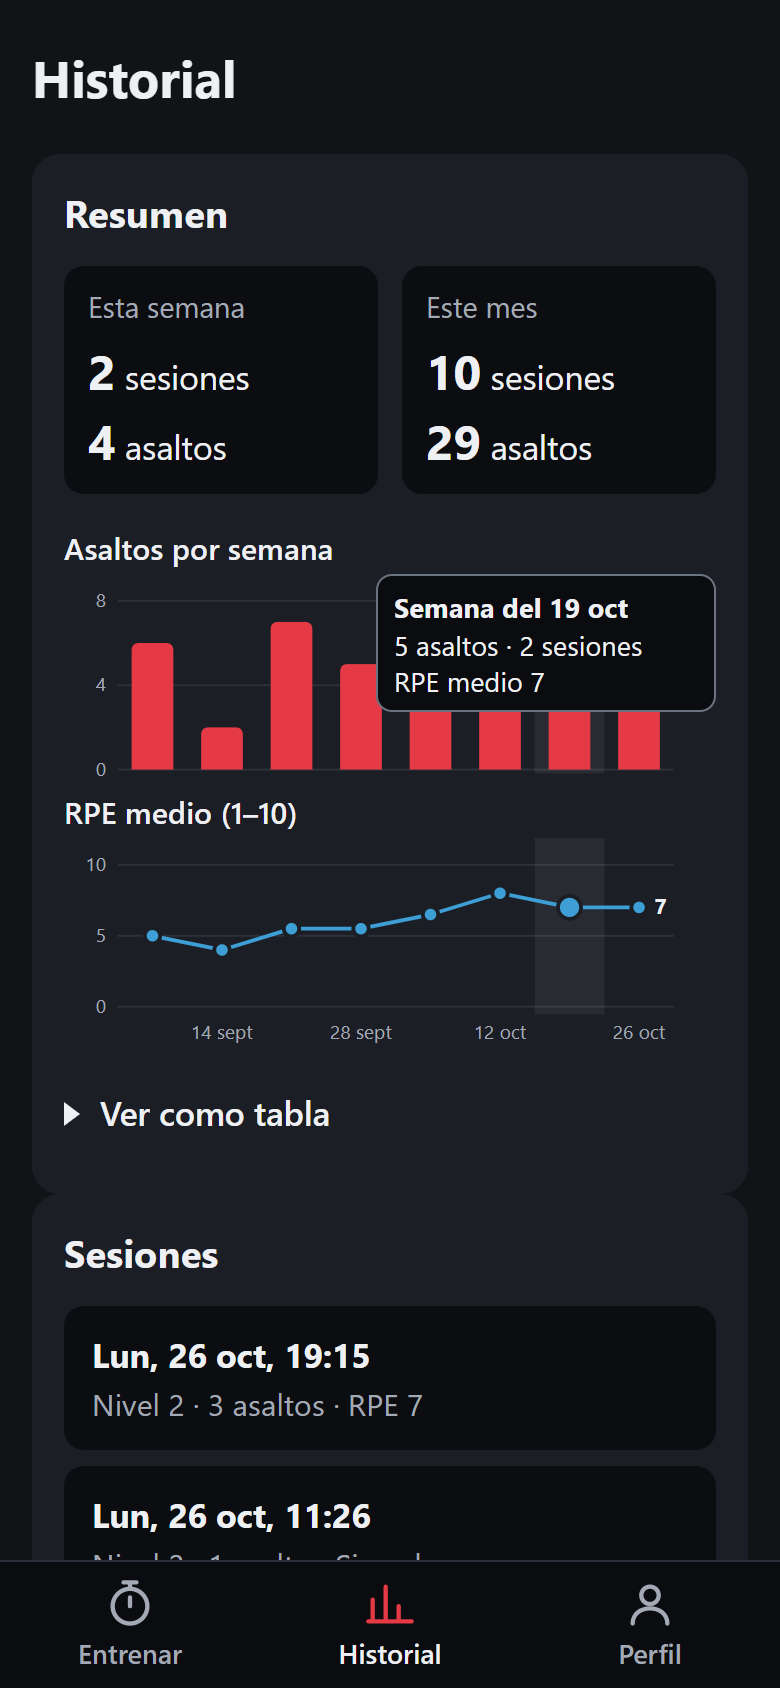
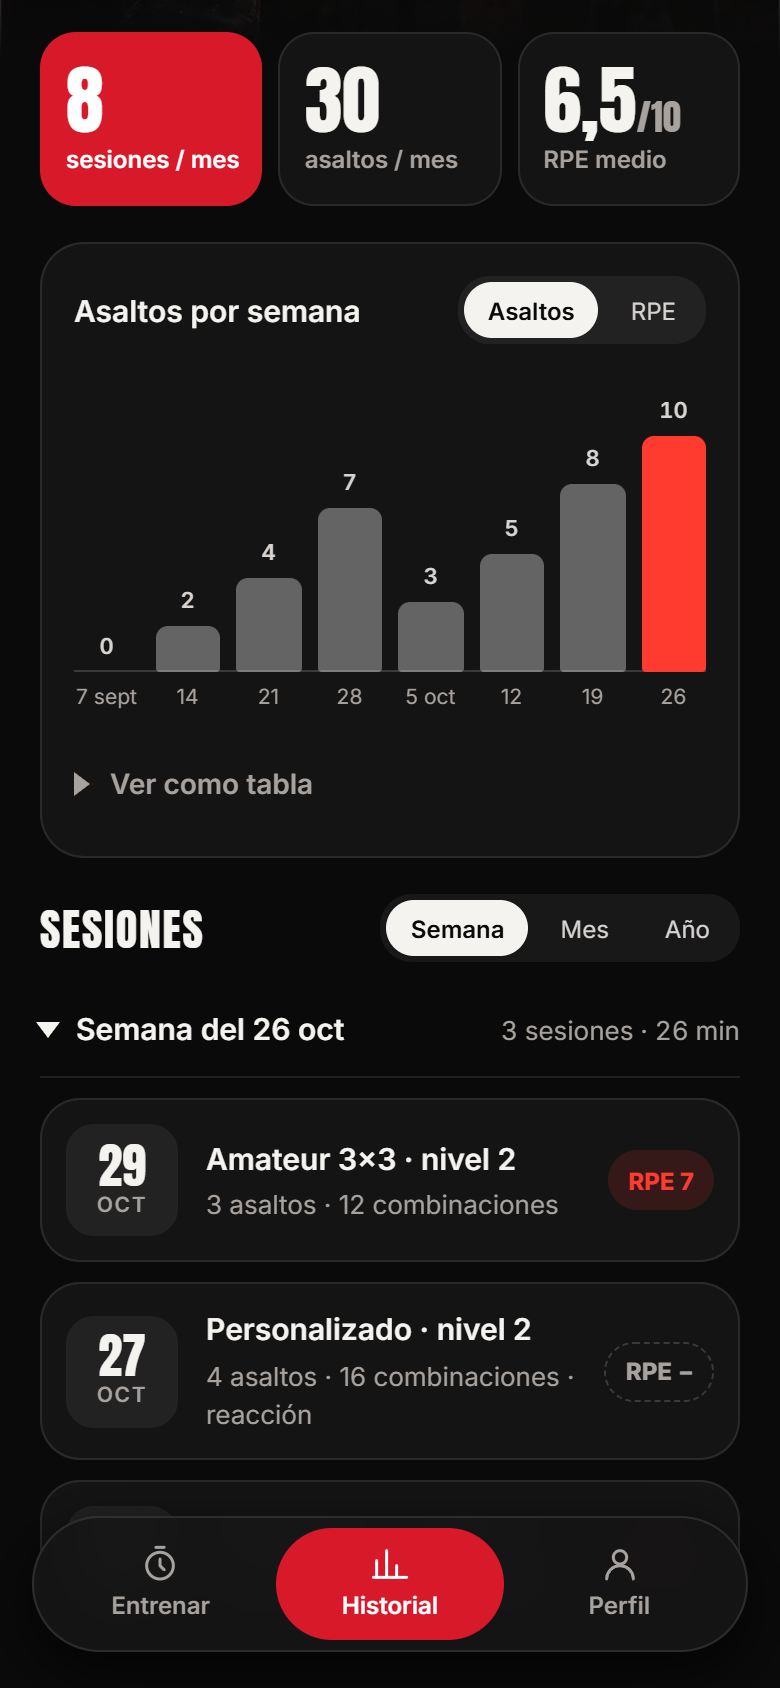
Ajusta el Historial a 1024 px (cifras encima del gráfico y columnas iguales) y actualiza el README y su captura

diff --git a/static/estilos.css b/static/estilos.css
@@ -807,12 +807,11 @@ dialog::backdrop { background: var(--velo); }
   .combo-texto { font-size: clamp(3rem, 5vw, 5rem); }
   #anterior { font-size: 1rem; }
 
-  /* Historial: resumen arriba a todo el ancho; lista y detalle en dos columnas. */
-  .maestro-detalle { grid-template-columns: minmax(0, 2fr) minmax(0, 3fr); align-items: start; }
-  /* Cifras a la izquierda y gráfico a la derecha, con ancho máximo. */
-  .resumen-historial, .con-detalle > .resumen-historial {
-    display: grid; grid-template-columns: minmax(0, 1fr) minmax(0, 640px); gap: 24px; align-items: start;
-  }
+  /* Historial: resumen arriba a todo el ancho; lista y detalle en dos columnas (a partes iguales
+     hasta 1280 px, para que las tarjetas y las cabeceras de los grupos no se partan). */
+  .maestro-detalle { grid-template-columns: repeat(2, minmax(0, 1fr)); align-items: start; }
+  /* Cifras encima del gráfico; desde 1280 px, a su izquierda (a 1024 el gráfico las tapaba). */
+  .resumen-historial, .con-detalle > .resumen-historial { display: grid; gap: 24px; align-items: start; }
   .cifras dd { font-size: 52px; }
   .cifras div { padding: 20px 18px; }
   .con-detalle .col-lista, #historial-contenido:not(.con-detalle) .col-detalle { display: grid; }
@@ -821,6 +820,11 @@ dialog::backdrop { background: var(--velo); }
   .col-detalle > .vacio {
     display: grid; place-items: center; min-height: 240px; text-align: center;
     border: 1px dashed var(--linea); border-radius: var(--radio);
+  }
+
+  @media (min-width: 1280px) {
+    .maestro-detalle { grid-template-columns: minmax(0, 2fr) minmax(0, 3fr); }
+    .resumen-historial, .con-detalle > .resumen-historial { grid-template-columns: minmax(0, 1fr) minmax(0, 640px); }
   }
 
   /* Ajustes: Voz y Tus datos a la izquierda, Qué te dicta a la derecha (a 1024 y a 1440 igual). */

diff --git a/README.md b/README.md
@@ -14,7 +14,7 @@ es una PWA instalable y todo se calcula en el dispositivo.
 
 | Valoración | Historial | Perfil |
 |:---:|:---:|:---:|
-| <img src="docs/capturas/postsesion.png" width="190" alt="Formulario post-sesión con RPE del 1 al 10, sensación del 1 al 5 y notas"> | <img src="docs/capturas/historial.png" width="190" alt="Historial: resumen de la semana y del mes, asaltos por semana en barras y RPE medio en línea"> | <img src="docs/capturas/perfil.png" width="190" alt="Perfil: tarjeta roja con el estilo provisional (boxer-puncher de media distancia) y las preguntas de estilo en chips"> |
+| <img src="docs/capturas/postsesion.png" width="190" alt="Formulario post-sesión con RPE del 1 al 10, sensación del 1 al 5 y notas"> | <img src="docs/capturas/historial.png" width="190" alt="Historial: cifras del mes, asaltos por semana en barras y sesiones agrupadas por semana con la actual desplegada"> | <img src="docs/capturas/perfil.png" width="190" alt="Perfil: tarjeta roja con el estilo provisional (boxer-puncher de media distancia) y las preguntas de estilo en chips"> |
 
 <sub>Capturas con datos de ejemplo.</sub>
 
@@ -50,7 +50,9 @@ es una PWA instalable y todo se calcula en el dispositivo.
   qué corregir y qué combinaciones han costado. Se puede saltar y rellenar después.
 - **Historial** con resumen semanal y mensual, dos gráficos SVG hechos a mano (asaltos por
   semana y RPE medio, con el mismo eje de semanas), detalle de cada sesión, notas editables y
-  borrado.
+  borrado. La lista se agrupa por **semana, mes o año** (se recuerda la elección) en grupos
+  plegables con sus sesiones y minutos de asalto (asaltos completados × duración, sin descansos);
+  sale abierto el periodo actual y, al volver de una sesión, también el suyo.
 - **Ajustes** (lo que cambia el entreno):
   - **Voz**: cualquiera de las voces en español del dispositivo o «Automática», a velocidad Lenta
     (0,9), Normal (1,1) o Rápida (1,3), con «Probar voz». Si la voz guardada no existe en otro móvil
@@ -67,7 +69,7 @@ es una PWA instalable y todo se calcula en el dispositivo.
 
 ## Tus datos
 
-Perfil, ajustes (voz incluida), últimas elecciones de Entrenar, notas y valoraciones se guardan **solo en el navegador** (`localStorage`); nunca van al
+Perfil, ajustes (voz incluida), últimas elecciones de Entrenar, cómo se agrupa el Historial, notas y valoraciones se guardan **solo en el navegador** (`localStorage`); nunca van al
 repositorio ni a `data/`. El almacén (`static/almacen.js`) tiene esquema versionado con
 migraciones: las sesiones guardadas con versiones anteriores siguen apareciendo. Si el navegador
 no deja guardar, la app sigue funcionando en memoria y avisa. Como `localStorage` se borra al
@@ -145,7 +147,7 @@ solo comando lo cubra todo:
 |---|---|
 | Pausa y reanudación | Con un reloj falso y pausas en mitad de combos y descansos, cada evento del guion se lanza una sola vez, en orden y en su segundo de sesión |
 | Los pesos del perfil llegan al generador | Subir cada peso aumenta la proporción de esas combinaciones en el guion; los pesos sustituyen a los de `perfil.json` |
-| Migración del almacén | El historial anterior (v0) pasa a v1 conservando las sesiones; v3 pasa a v4 tomando nivel y guardia del perfil y conservando historial, valoraciones, notas y revisiones; v4 pasa a v5 con la voz automática a velocidad normal, sin los focos de trabajo y sin tocar lo demás; migrar dos veces no cambia nada; datos dañados o de una versión más nueva no se sobrescriben |
+| Migración del almacén | El historial anterior (v0) pasa a v1 conservando las sesiones; v3 pasa a v4 tomando nivel y guardia del perfil y conservando historial, valoraciones, notas y revisiones; v4 pasa a v5 con la voz automática a velocidad normal, el Historial agrupado por semana, sin los focos de trabajo y sin tocar lo demás; migrar dos veces no cambia nada; datos dañados o de una versión más nueva no se sobrescriben |
 | Copia de seguridad | Exportar → JSON → importar da exactamente los mismos datos |
 | Ids sin colisiones | Las sesiones locales usan UUID: borrar o importar no mezcla valoraciones |
 | Contraste | Los colores de `estilos.css` cumplen AA (texto 4,5:1; bordes, foco y gráficos 3:1) |
